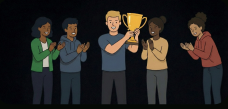
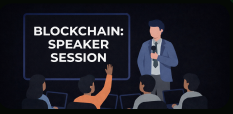
fix: update the timeline to the latest schedule

diff --git a/src/app/components/CardsRow.jsx b/src/app/components/CardsRow.jsx
@@ -25,31 +25,31 @@ export default function CardsRow() {
       index: 3,
       title: "Breaking Phase",
       date: "Day 1",
-      time: "09:30 AM – 11:00 AM",
+      time: "09:30 AM – 12:30 PM",
       description: "Teams begin work on their projects.",
       image: "/images/image3.png",
     },
     {
       index: 4,
-      title: "Speaker Session",
+      title: "Lunch Break",
       date: "Day 1",
-      time: "11:00 AM – 1:00 PM",
-      description: "Guest speakers share insights and inspiration.",
-      image: "/images/image5.png",
+      time: "12:30 PM – 02:00 PM",
+      description: "Lunch break for all participants.",
+      image: "/images/image4.png",
     },
     {
       index: 5,
-      title: "Lunch Break",
+      title: "Building Phase 1",
       date: "Day 1",
-      time: "01:00 PM – 02:00 PM",
-      description: "Students return to their hostels for lunch.",
-      image: "/images/image4.png",
+      time: "02:00 PM – 05:00 PM",
+      description: "Teams continue building their projects.",
+      image: "/images/image5.png",
     },
     {
       index: 6,
       title: "Review 1",
       date: "Day 1",
-      time: "04:00 PM – 07:00 PM",
+      time: "05:00 PM – 07:00 PM",
       description: "First project review and feedback.",
       image: "/images/image6.png",
     },
@@ -58,7 +58,7 @@ export default function CardsRow() {
       title: "Dinner Break",
       date: "Day 1",
       time: "07:00 PM – 09:00 PM",
-      description: "Students return to their hostels for dinner.",
+      description: "Dinner break for all participants.",
       image: "/images/image7.png",
     },
     {
@@ -74,7 +74,7 @@ export default function CardsRow() {
       index: 10,
       title: "Jamming, Coffee Pong & Mini Games",
       date: "Day 2",
-      time: "12:00 AM – 12:30 AM",
+      time: "12:00 AM – 01:00 AM",
       description: "Fun activities to recharge and bond.",
       image: "/images/image9.png",
     },
@@ -114,17 +114,25 @@ export default function CardsRow() {
       index: 15,
       title: "Final Review",
       date: "Day 2",
-      time: "10:00 AM – 12:30 PM",
+      time: "10:00 AM – 12:00 PM",
       description: "Final project presentations and judging.",
       image: "/images/image14.png",
     },
     {
       index: 16,
+      title: "Speaker Session",
+      date: "Day 2",
+      time: "12:00 PM – 12:40 PM",
+      description: "Guest speaker session.",
+      image: "/images/image15.png",
+    },
+    {
+      index: 17,
       title: "Ending Ceremony",
       date: "Day 2",
-      time: "12:30 PM – 01:00 PM",
+      time: "12:40 PM – 01:00 PM",
       description: "Awards, closing remarks, and celebration.",
-      image: "/images/image15.png",
+      image: "/images/image16.png",
     },
     { index: null, text: "End of Day 2...", isEnd: true },
   ];
